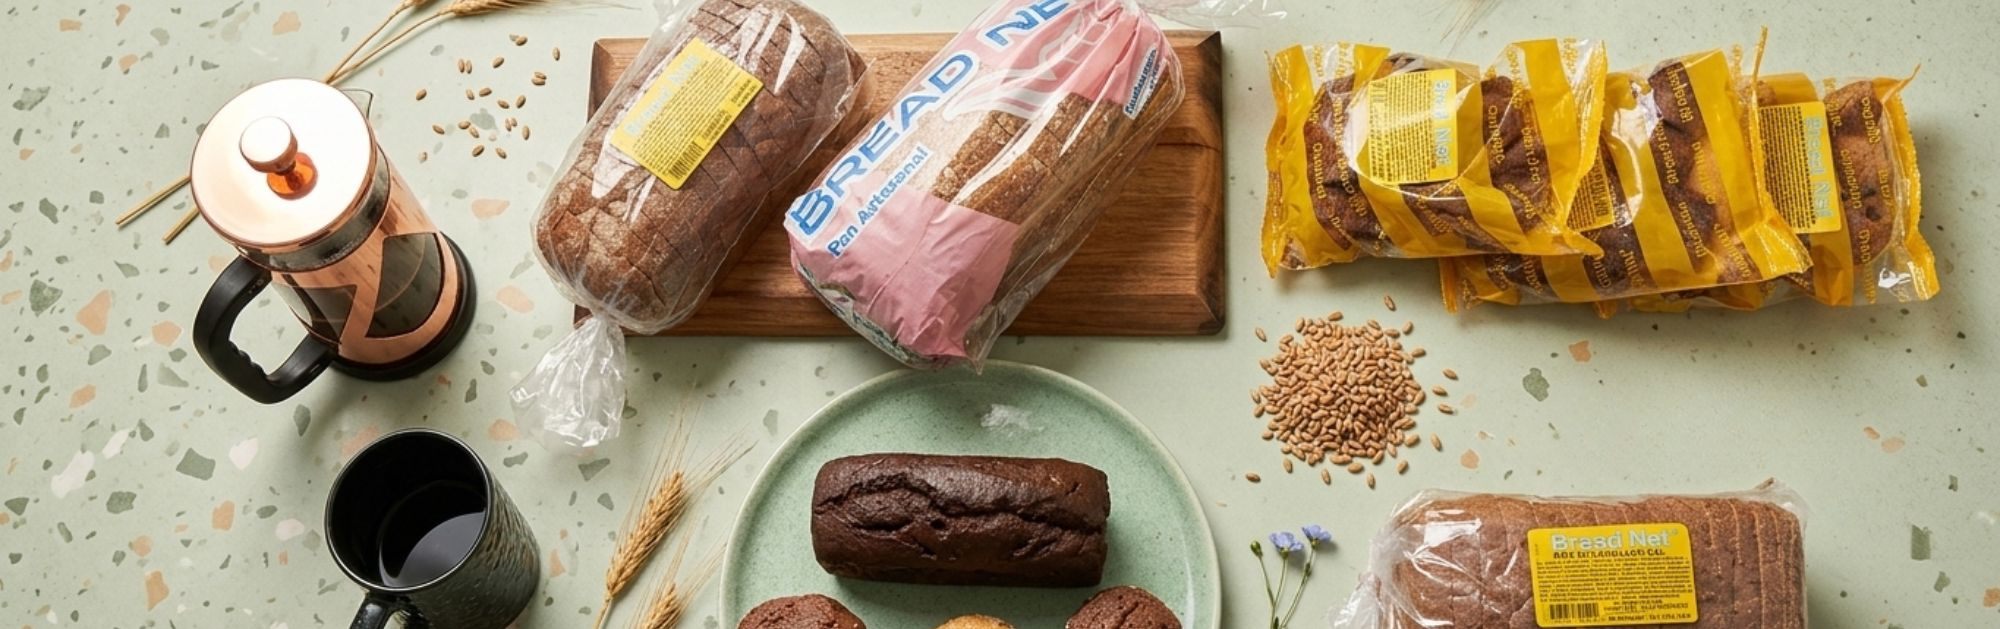
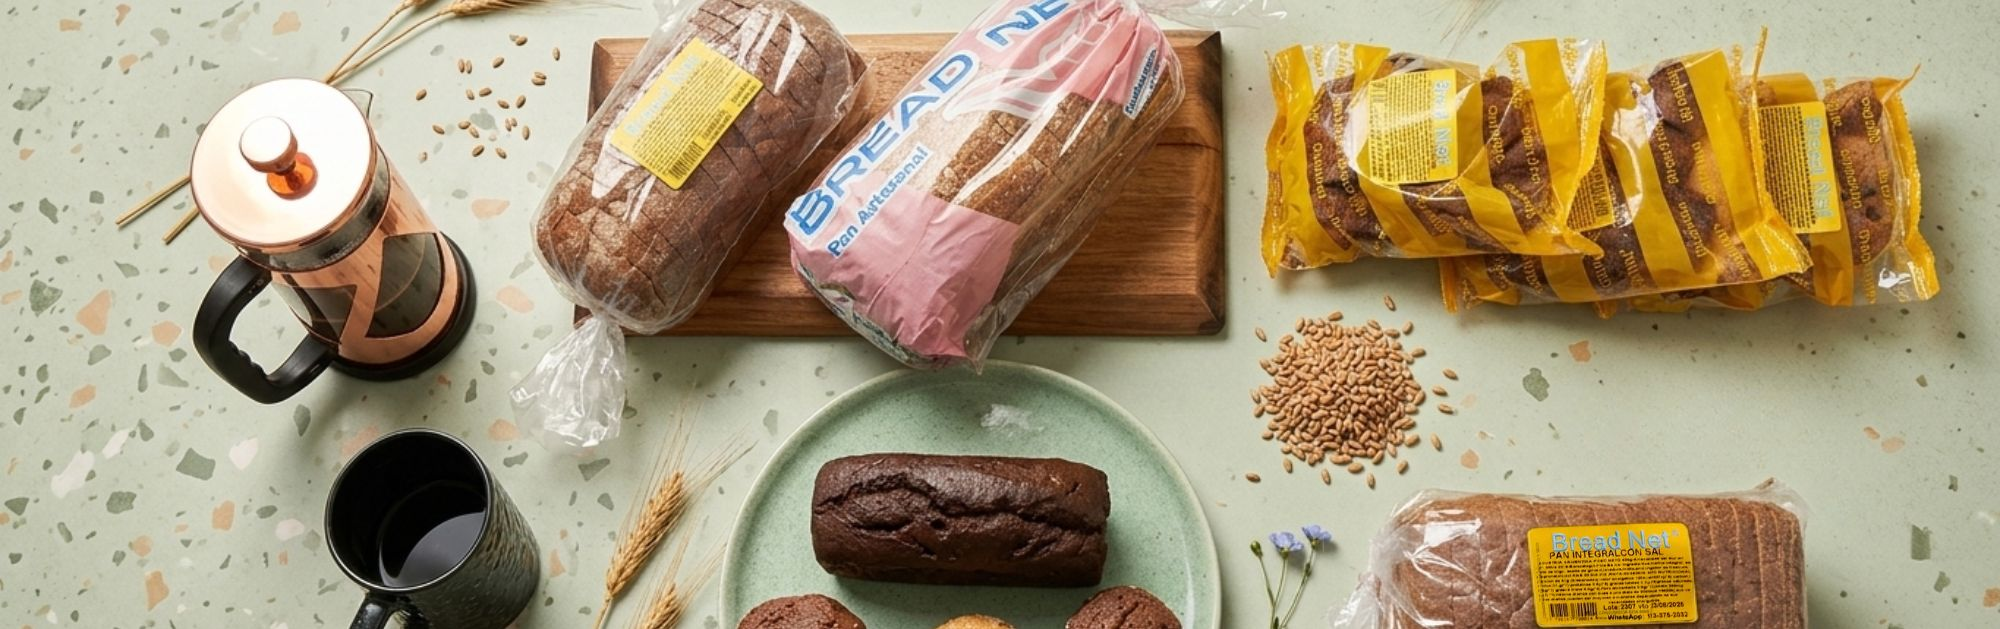
Update: carrusel nuevas imágenes, enlaces chiffoncitos corregidos

Changed region(s): [[0.744, 0.8156, 0.868, 0.9968]]

diff --git a/index.html b/index.html
@@ -36,7 +36,7 @@
                   <a href="/panes.html">Panes</a>
                   </li>
                   <li>
-                  <a href="/chiffones.html">Chiffones</a>
+                  <a href="/chiffoncitos.html">Chiffoncitos</a>
                   </li>
                   <li>
                   <a href="/alfajores.html">Alfajores</a>
@@ -72,6 +72,9 @@
         <img src="/images/carrousel_0.jpg" alt="" />
       </div>
       <div>
+        <img src="/images/carrousel_1b.jpg" alt="" />
+      </div>
+      <div>
         <img src="/images/carrousel_1.jpg" alt="" />
       </div>
       <div>
@@ -81,7 +84,7 @@
         <img src="/images/carrousel_4.jpg" alt="" />
       </div>
       <div>
-        <img src="//images.contentful.com/c9ljuftfcdiz/6p690m7kqIiKIUMsiK2qEM/6738dc855a0c124725e1a4259eff087c/fotosbreadnet011.jpg" alt="" />
+        <img src="/images/carrousel_5.jpg" alt="" />
       </div>
       <div>
         <img src="/images/chifoncitos.png" alt="" />
@@ -118,12 +121,12 @@
         </a>
       </div>
       <div class='col-lg-2 col-md-6 col-sm-6'>
-        <a class='portfolio-box' href="/chiffones.html">
+        <a class='portfolio-box' href="/chiffoncitos.html">
           <img class='img-responsive' src="/images/boton_chiffones.jpg" alt="chifon" />
           <div class='portfolio-box-caption'>
             <div class='portfolio-box-caption-content'>
               <div class='project-category text-faded'>
-                Chiffones
+                Chiffoncitos
               </div>
               <div class='project-name'>
                 

diff --git a/stylesheets/application.css b/stylesheets/application.css
@@ -83,6 +83,7 @@ img {
 header .navbar {
   height: 56px;
   border-color: var(--border);
+  margin-bottom: 0;
 }
 
 header .navbar .logo-container {
@@ -176,6 +177,8 @@ a.brand h3 {
 .carousel {
   width: auto;
   margin-top: 0;
+  margin-left: -15px;
+  margin-right: -15px;
   overflow: hidden;
   box-shadow: var(--shadow);
 }
@@ -537,6 +540,8 @@ footer a:hover {
   display: flex;
   flex-wrap: wrap;
   justify-content: center;
+  margin-left: 0;
+  margin-right: 0;
 }
 
 .text-center {

diff --git a/alfajores.html b/alfajores.html
@@ -36,7 +36,7 @@
                   <a href="/panes.html">Panes</a>
                   </li>
                   <li>
-                  <a href="/chiffones.html">Chiffones</a>
+                  <a href="/chiffoncitos.html">Chiffoncitos</a>
                   </li>
                   <li>
                   <a href="/alfajores.html">Alfajores</a>

diff --git a/contact.html b/contact.html
@@ -36,7 +36,7 @@
                   <a href="/panes.html">Panes</a>
                   </li>
                   <li>
-                  <a href="/chiffones.html">Chiffones</a>
+                  <a href="/chiffoncitos.html">Chiffoncitos</a>
                   </li>
                   <li>
                   <a href="/alfajores.html">Alfajores</a>

diff --git a/cookies_banadas.html b/cookies_banadas.html
@@ -36,7 +36,7 @@
                   <a href="/panes.html">Panes</a>
                   </li>
                   <li>
-                  <a href="/chiffones.html">Chiffones</a>
+                  <a href="/chiffoncitos.html">Chiffoncitos</a>
                   </li>
                   <li>
                   <a href="/alfajores.html">Alfajores</a>

diff --git a/galletitas.html b/galletitas.html
@@ -36,7 +36,7 @@
                   <a href="/panes.html">Panes</a>
                   </li>
                   <li>
-                  <a href="/chiffones.html">Chiffones</a>
+                  <a href="/chiffoncitos.html">Chiffoncitos</a>
                   </li>
                   <li>
                   <a href="/alfajores.html">Alfajores</a>

diff --git a/panes.html b/panes.html
@@ -36,7 +36,7 @@
                   <a href="/panes.html">Panes</a>
                   </li>
                   <li>
-                  <a href="/chiffones.html">Chiffones</a>
+                  <a href="/chiffoncitos.html">Chiffoncitos</a>
                   </li>
                   <li>
                   <a href="/alfajores.html">Alfajores</a>

diff --git a/quienes_somos.html b/quienes_somos.html
@@ -36,7 +36,7 @@
                   <a href="/panes.html">Panes</a>
                   </li>
                   <li>
-                  <a href="/chiffones.html">Chiffones</a>
+                  <a href="/chiffoncitos.html">Chiffoncitos</a>
                   </li>
                   <li>
                   <a href="/alfajores.html">Alfajores</a>